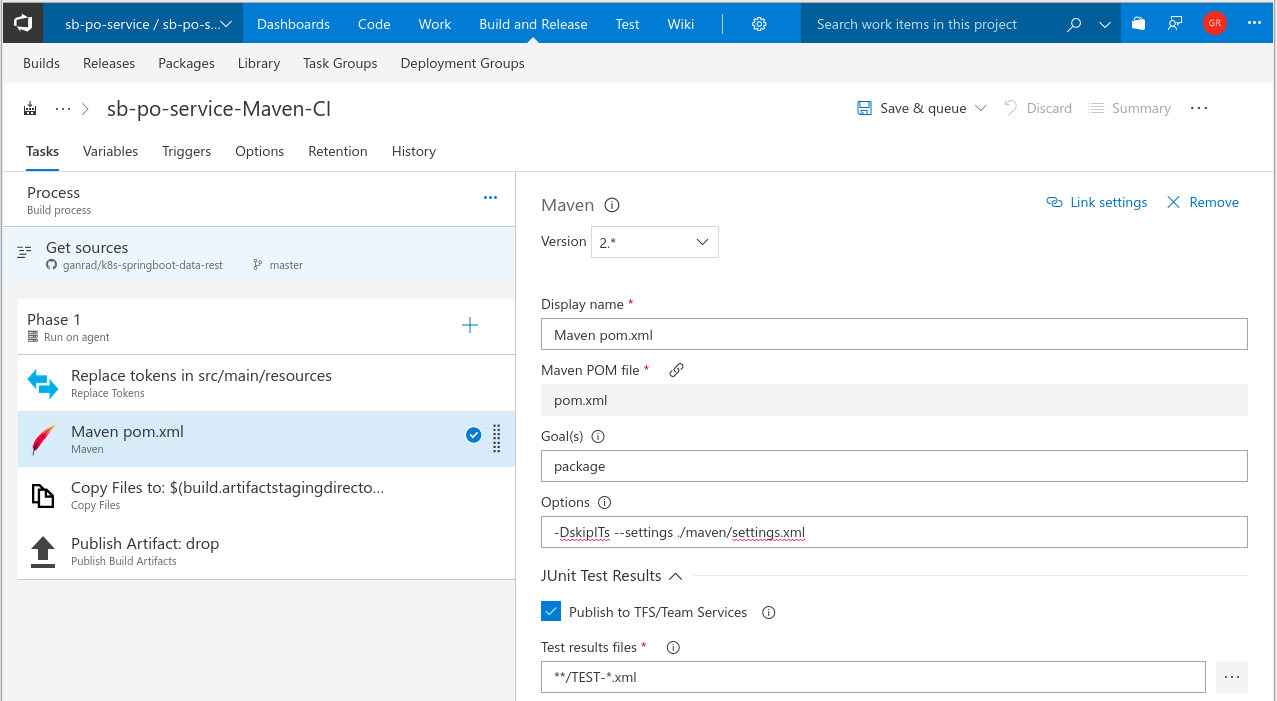
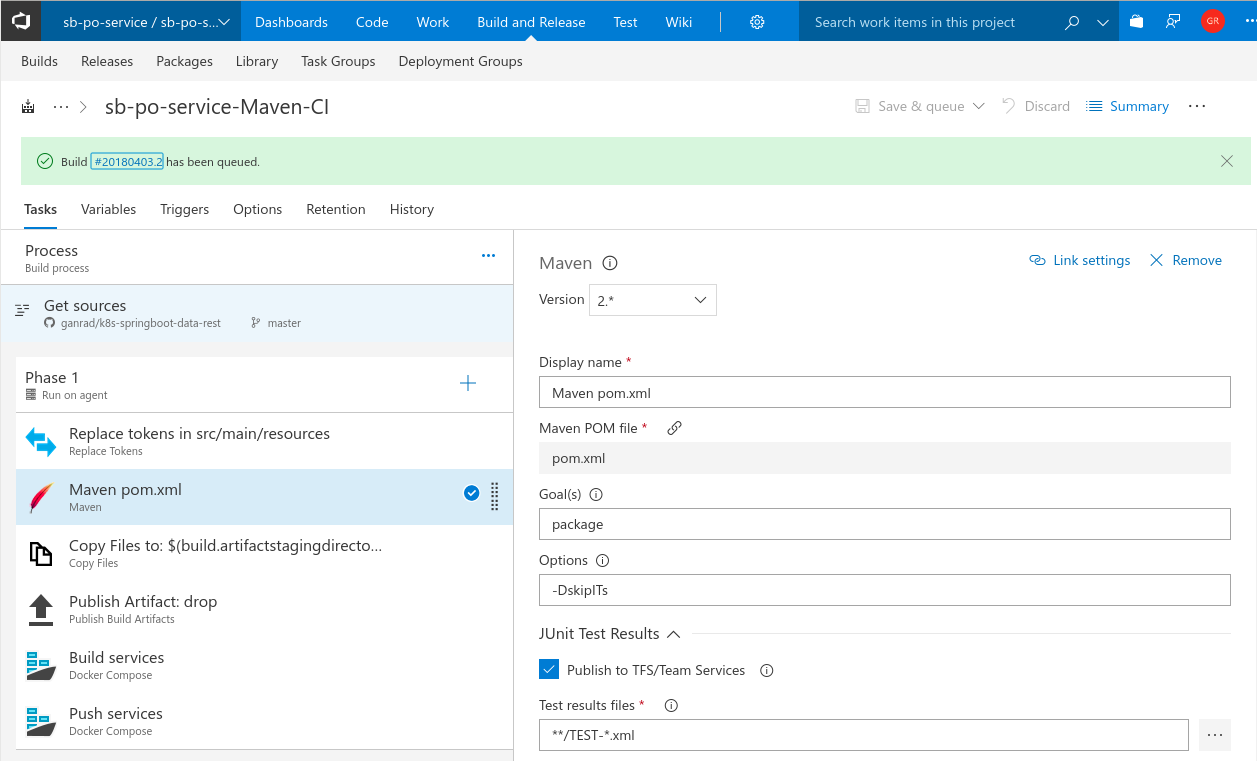
Updated Readme doc.

diff --git a/README.md b/README.md
@@ -130,7 +130,7 @@ svc.name.k8s.namespace mysql.development
 
 ![alt tag](./images/A-14.png)
 
-15.  Click on the **Run a Docker Compose ...* task on the left.  Specify *Azure Container Registry* for **Container Registry Type**.  In the **Azure Subscription** field, select your Azure subscription.  Click on **Authorize**.  In the **Azure Container Registry** field, select the ACR which you created in step [B] above.  Check to make sure the **Docker Compose File** field is set to **/docker-compose.yml.  Enable **Qualify Image Names** checkbox.  In the **Action** field, select *Build service images* and also enable **Include Latest Tag** checkbox.  See screenshot below.
+15.  Click on the *Run a Docker Compose ...* task on the left panel.  Specify *Azure Container Registry* for **Container Registry Type**.  In the **Azure Subscription** field, select your Azure subscription.  Click on **Authorize**.  In the **Azure Container Registry** field, select the ACR which you created in step [B] above.  Check to make sure the **Docker Compose File** field is set to **/docker-compose.yml.  Enable **Qualify Image Names** checkbox.  In the **Action** field, select *Build service images* and also enable **Include Latest Tag** checkbox.  See screenshot below.
 
 ![alt tag](./images/A-15.PNG)
 
@@ -140,7 +140,7 @@ svc.name.k8s.namespace mysql.development
 
 ![alt tag](./images/A-17.PNG)
 
-18.  Click **Save and Queue** to save the build definition and queue it for execution.
+18.  Click **Save and Queue** to save the build definition and queue it for execution. Wait for the build to finish.
 
 First, create a new project in OpenShift using the Web Console (UI).
 First, create a new project in OpenShift using the Web Console (UI).
